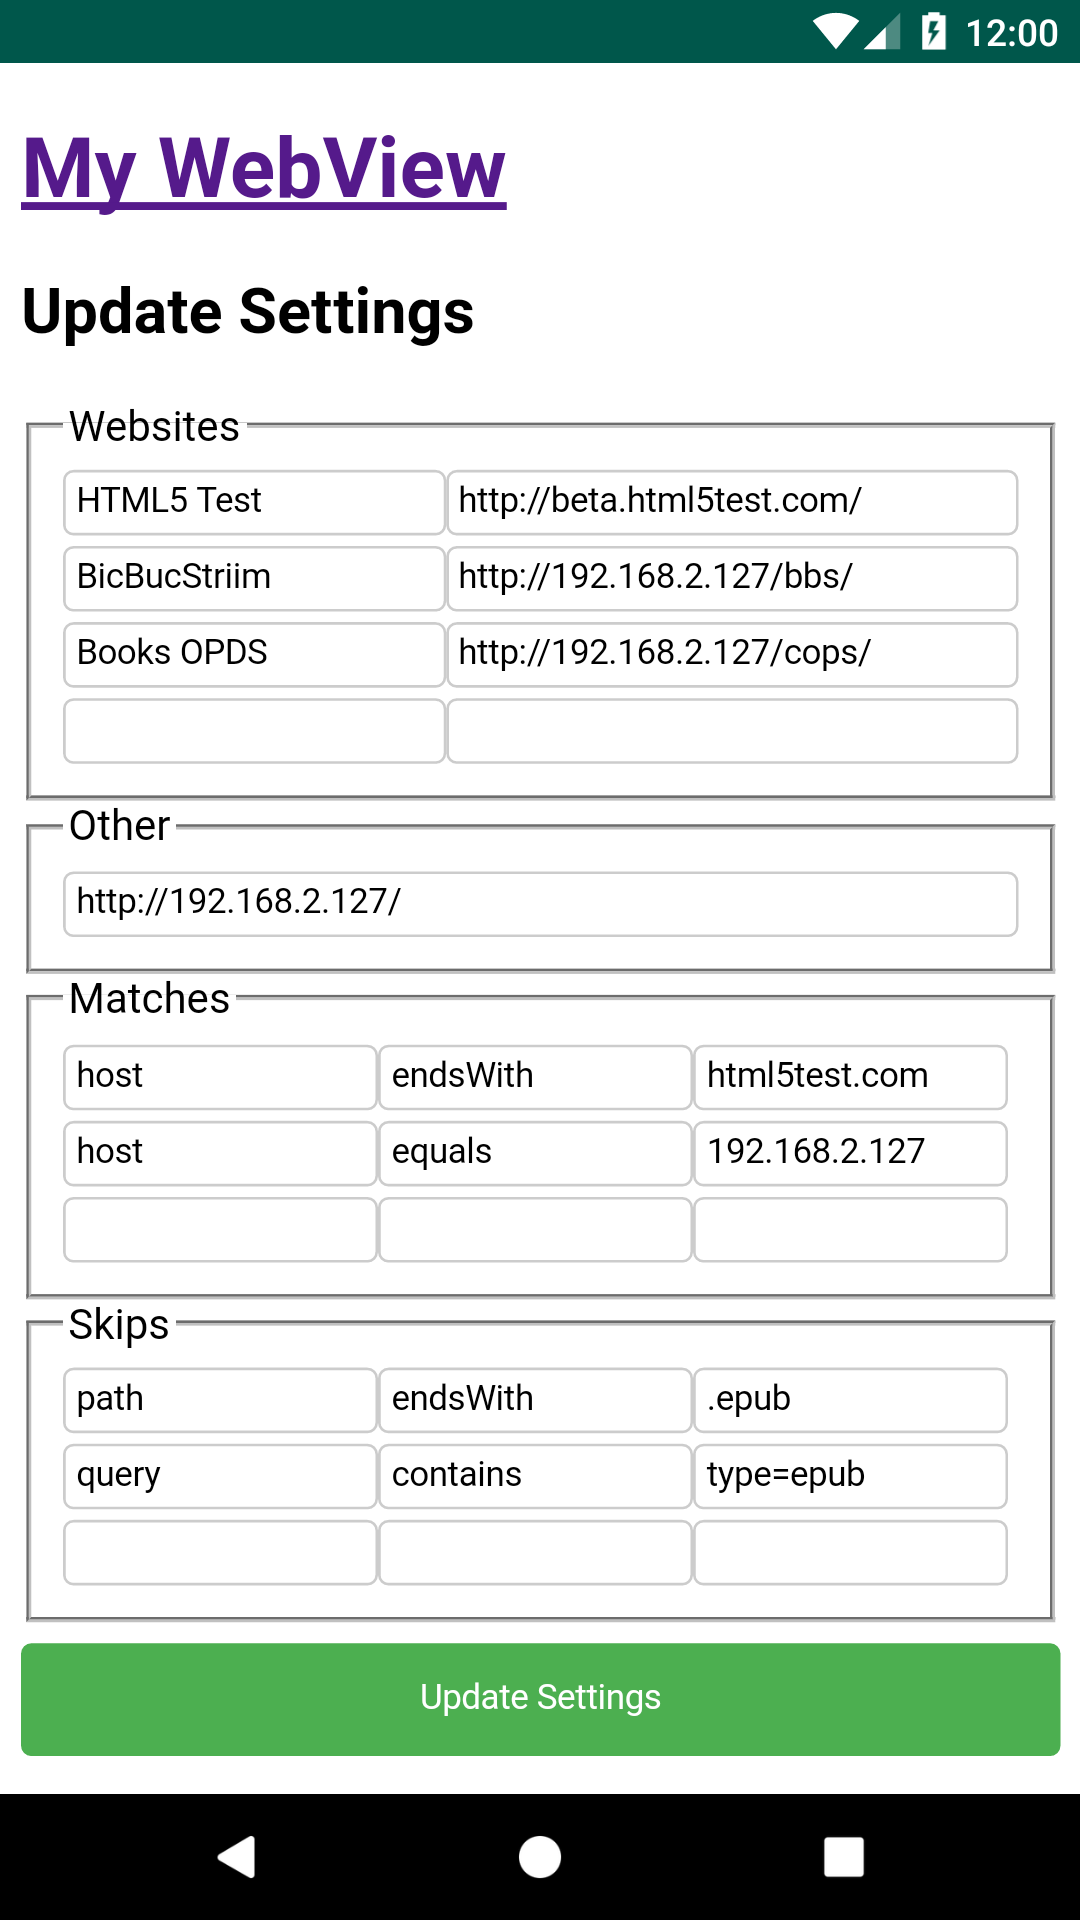
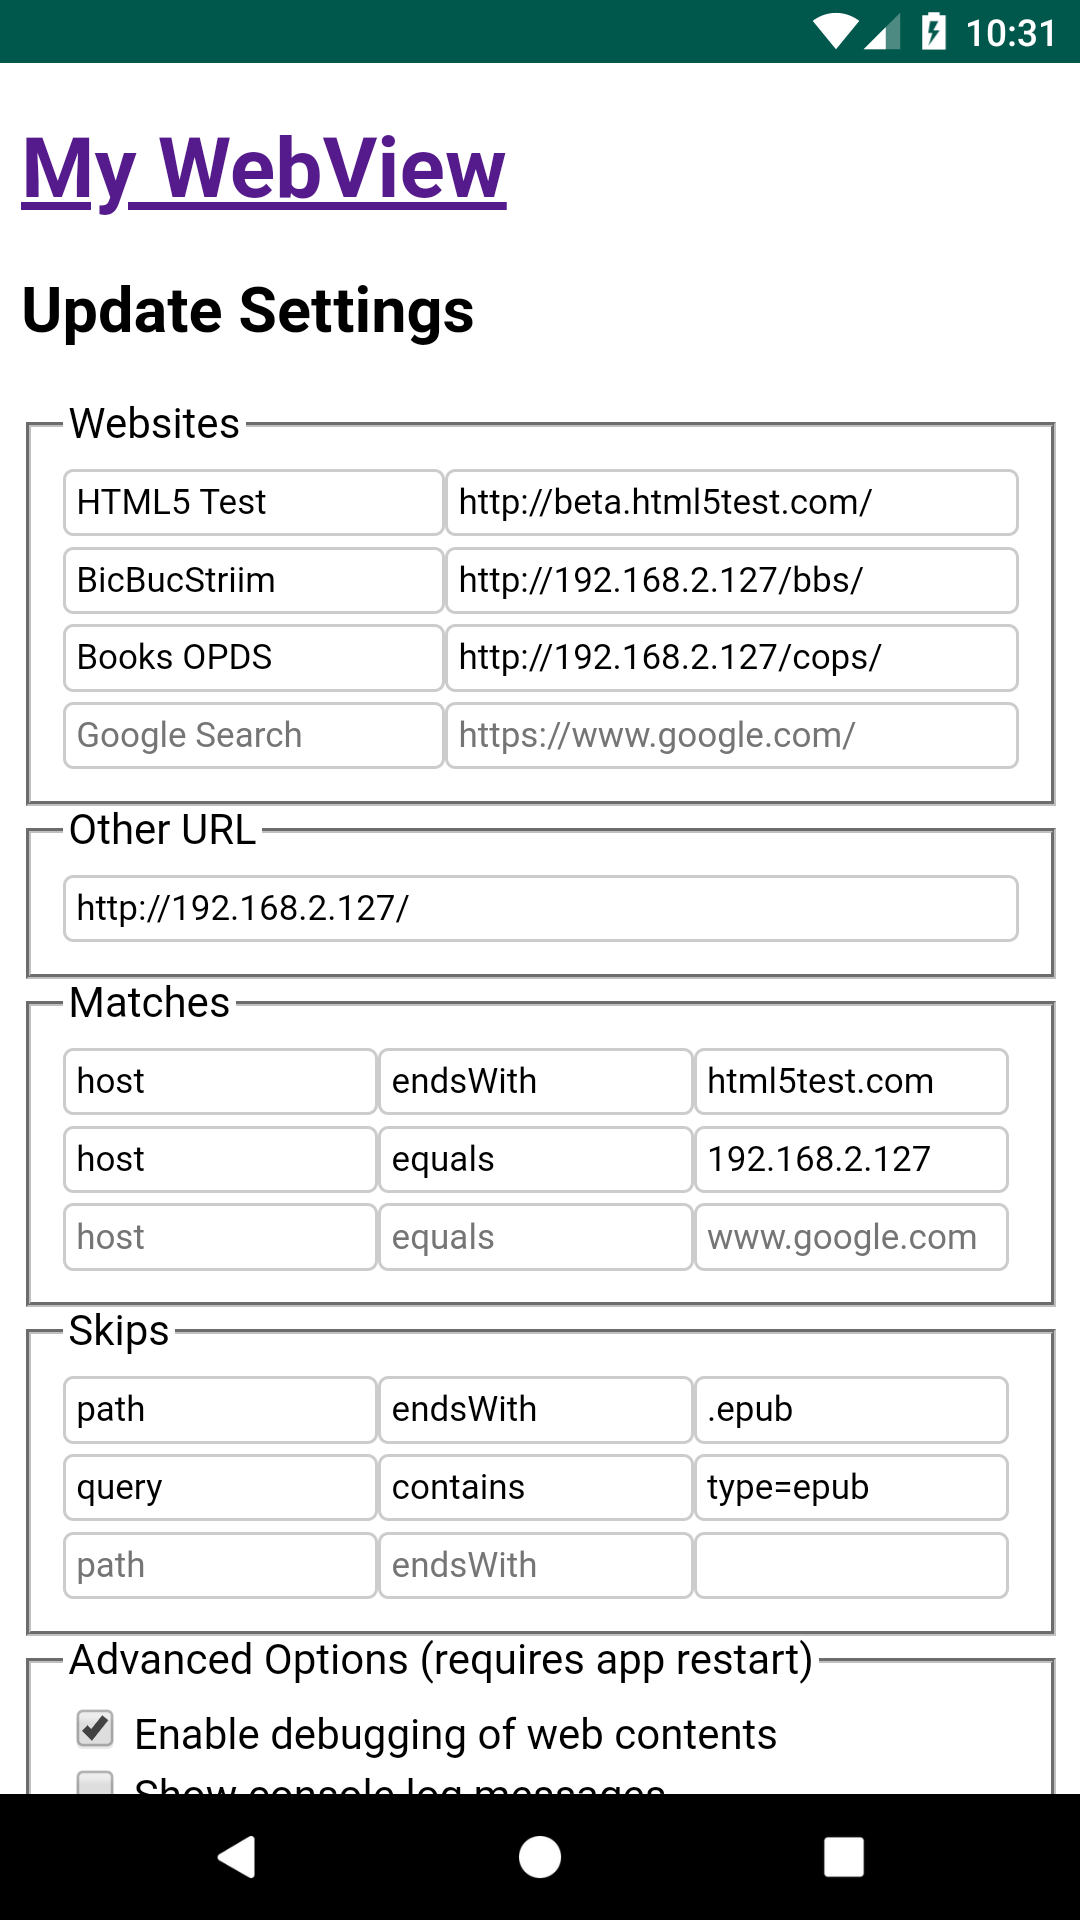
start update assets

diff --git a/app/src/main/assets/web/update.html b/app/src/main/assets/web/update.html
@@ -231,6 +231,11 @@ input[type=submit] {
             <input id="not_matching" type="checkbox" name="not_matching" value="true"> <label for="not_matching">Open non-matching links via browser</label>
         </fieldset>
 
+        <fieldset id="update">
+            <legend><label for="update_zip">Update Assets from trusted site</label></legend>
+            <input id="update_zip" type="url" name="update_zip" value="" placeholder="https://github.com/mikespub/android-webview/raw/master/app/release/updates/assets.zip">
+        </fieldset>
+
         <!--
         <label for="source">Source</label>
         <input id="source" type="text" name="source" value="">
@@ -281,6 +286,10 @@ input[type=submit] {
             var not_matching = document.getElementById("not_matching");
             if (not_matching && settings["not_matching"]) {
                 not_matching.checked = true;
+            }
+            var update_zip = document.getElementById("update_zip");
+            if (update_zip) {
+                update_zip.value = settings["update_zip"];
             }
             var timestamp = document.getElementById("timestamp");
             if (timestamp) {

diff --git a/app/src/main/java/net/mikespub/mywebview/MyAppWebViewClient.java b/app/src/main/java/net/mikespub/mywebview/MyAppWebViewClient.java
@@ -1,8 +1,13 @@
 package net.mikespub.mywebview;
 
+import android.app.DownloadManager;
+import android.content.BroadcastReceiver;
+import android.content.Context;
 import android.content.Intent;
+import android.content.IntentFilter;
 import android.net.Uri;
 import android.util.Log;
+import android.webkit.URLUtil;
 import android.webkit.WebResourceResponse;
 import android.webkit.WebView;
 import android.webkit.WebViewClient;
@@ -28,6 +33,42 @@ class MyAppWebViewClient extends WebViewClient {
     // SavedStateViewModel see https://github.com/googlecodelabs/android-lifecycles/blob/master/app/src/main/java/com/example/android/lifecycles/step6_solution/SavedStateActivity.java
     // or with AndroidViewModel see https://github.com/husaynhakeem/Androidx-SavedState-Playground/blob/master/app/src/main/java/com/husaynhakeem/savedstateplayground/AndroidViewModelWithSavedState.kt
     private final MySavedStateModel mySavedStateModel;
+    // https://androidclarified.com/android-downloadmanager-example/
+    private DownloadManager mDownloadManager;
+    private long mDownloadId = -1;
+    private BroadcastReceiver onDownloadComplete = new BroadcastReceiver() {
+        @Override
+        public void onReceive(Context context, Intent intent) {
+            //Fetching the download id received with the broadcast
+            long id = intent.getLongExtra(DownloadManager.EXTRA_DOWNLOAD_ID, -1);
+            //Checking if the received broadcast is for our enqueued download by matching download id
+            if (id > -1 && mDownloadId == id && mDownloadManager != null) {
+                // unzip
+                Log.d("Web Update", "Receive: " + mDownloadId);
+                /*
+                // query download status
+                Cursor cursor = mDownloadManager.query(new DownloadManager.Query().setFilterById(downloadId));
+                if (cursor.moveToFirst()) {
+                    int status = cursor.getInt(cursor.getColumnIndex(DownloadManager.COLUMN_STATUS));
+                    if(status == DownloadManager.STATUS_SUCCESSFUL){
+
+                        // download is successful
+                        String uri = cursor.getString(cursor.getColumnIndex(DownloadManager.COLUMN_LOCAL_URI));
+                        File file = new File(Uri.parse(uri).getPath());
+                    }
+                    else {
+                        // download is assumed cancelled
+                    }
+                }
+                else {
+                    // download is assumed cancelled
+                }
+                 */
+                Uri uri = mDownloadManager.getUriForDownloadedFile(mDownloadId);
+                Log.d("Web Update", "Uri: " + uri);
+            }
+        }
+    };
 
     MyAppWebViewClient(MainActivity activity) {
         this.activity = activity;
@@ -35,6 +76,8 @@ class MyAppWebViewClient extends WebViewClient {
         // https://stackoverflow.com/questions/57838759/how-android-jetpack-savedstateviewmodelfactory-works
         this.mySavedStateModel = activity.getSavedStateModel();
         loadSettings();
+        Log.d("Web Create", "register receiver");
+        activity.registerReceiver(onDownloadComplete, new IntentFilter(DownloadManager.ACTION_DOWNLOAD_COMPLETE));
     }
 
     Boolean hasDebuggingEnabled() {
@@ -55,6 +98,10 @@ class MyAppWebViewClient extends WebViewClient {
 
     Boolean hasNotMatching() {
         return (Boolean) mySavedStateModel.getValue("not_matching");
+    }
+
+    String hasUpdateZip() {
+        return (String) mySavedStateModel.getValue("update_zip");
     }
 
     private void loadSettings() {
@@ -190,7 +237,6 @@ class MyAppWebViewClient extends WebViewClient {
             return true;
         }
 
-        // TODO: make this configurable for non-matching urls
         if (hasNotMatching()) {
             Intent intent = new Intent(Intent.ACTION_VIEW, uri);
             // Create intent to show chooser
@@ -262,6 +308,30 @@ class MyAppWebViewClient extends WebViewClient {
             HashMap<String, Object> hashMap = this.mySavedStateModel.parseQuery(this.activity, uri);
             String jsonString = this.mySavedStateModel.setSettings(this.activity, hashMap);
             loadSettings();
+            String update_zip = hasUpdateZip();
+            mDownloadId = -1;
+            if (update_zip != null && update_zip.startsWith("http")) {
+                // start download request - https://medium.com/@trionkidnapper/android-webview-downloading-images-f0ec21ac75d2
+                Uri update_uri = Uri.parse(update_zip);
+                if (update_uri != null && URLUtil.isNetworkUrl(update_uri.toString())) {
+                    String update_name = URLUtil.guessFileName(update_uri.toString(), null, null);
+                    File update_file = new File(this.activity.getExternalFilesDir(null), update_name);
+                    if (update_file.exists()) {
+                        Log.d("Web Update", update_file.getAbsolutePath() + " exists");
+                    } else {
+                        Log.d("Web Update", update_file.getAbsolutePath() + " does not exist");
+                        DownloadManager.Request request = new DownloadManager.Request(update_uri);
+                        request.setDestinationInExternalFilesDir(this.activity, null, update_name);
+                        try {
+                            mDownloadManager = (DownloadManager) this.activity.getSystemService(Context.DOWNLOAD_SERVICE);
+                            mDownloadId = mDownloadManager.enqueue(request);
+                            Log.d("Web Update", "Enqueue: " + mDownloadId);
+                        } catch (Exception e) {
+                            Log.e("Web Update", e.toString());
+                        }
+                    }
+                }
+            }
             String message = "<!DOCTYPE html>\n" +
                     "<html lang=\"en\">\n" +
                     "<head>\n" +

diff --git a/app/src/main/java/net/mikespub/mywebview/MySettingsRepository.java b/app/src/main/java/net/mikespub/mywebview/MySettingsRepository.java
@@ -11,9 +11,11 @@ import androidx.appcompat.app.AppCompatActivity;
 import org.json.JSONException;
 import org.json.JSONObject;
 
+import java.io.BufferedInputStream;
 import java.io.BufferedReader;
 import java.io.File;
 import java.io.FileInputStream;
+import java.io.FileNotFoundException;
 import java.io.FileOutputStream;
 import java.io.IOException;
 import java.io.InputStream;
@@ -33,6 +35,8 @@ import java.util.HashMap;
 import java.util.List;
 import java.util.Locale;
 import java.util.TimeZone;
+import java.util.zip.ZipEntry;
+import java.util.zip.ZipInputStream;
 
 class MySettingsRepository {
     // http://tutorials.jenkov.com/android/android-web-apps-using-android-webview.html
@@ -94,6 +98,7 @@ class MySettingsRepository {
         return hashMap;
     }
 
+    // TODO: update assets from trusted site
     private long checkAssetFiles() {
         // /data/user/0/net.mikespub.mywebview/files
         // File filesdir = getFilesDir();
@@ -111,7 +116,10 @@ class MySettingsRepository {
         // See also https://stackoverflow.com/questions/37953002/mess-with-the-shared-preferences-of-android-which-function-to-use/37953072 for preferences
         long lastUpdated = 0;
         if (!extwebdir.exists()) {
-            extwebdir.mkdirs();
+            if (!extwebdir.mkdirs()) {
+                Log.d("External Web Dir", Boolean.toString(extwebdir.exists()));
+                return lastUpdated;
+            }
             Log.d("External Web Dir", Boolean.toString(extwebdir.exists()));
         } else {
             try {
@@ -160,6 +168,34 @@ class MySettingsRepository {
         int read;
         while((read = in.read(buffer)) != -1){
             out.write(buffer, 0, read);
+        }
+    }
+
+    // See https://stackoverflow.com/questions/3382996/how-to-unzip-files-programmatically-in-android
+    public static void unzipFile(File zipFile, File targetDirectory) throws IOException {
+        try (ZipInputStream zis = new ZipInputStream(
+                new BufferedInputStream(new FileInputStream(zipFile)))) {
+            ZipEntry ze;
+            int count;
+            byte[] buffer = new byte[8192];
+            while ((ze = zis.getNextEntry()) != null) {
+                File file = new File(targetDirectory, ze.getName());
+                File dir = ze.isDirectory() ? file : file.getParentFile();
+                if (!dir.isDirectory() && !dir.mkdirs())
+                    throw new FileNotFoundException("Failed to ensure directory: " +
+                            dir.getAbsolutePath());
+                if (ze.isDirectory())
+                    continue;
+                try (FileOutputStream fout = new FileOutputStream(file)) {
+                    while ((count = zis.read(buffer)) != -1)
+                        fout.write(buffer, 0, count);
+                }
+                /* if time should be restored as well
+                long time = ze.getTime();
+                if (time > 0)
+                    file.setLastModified(time);
+                */
+            }
         }
     }
 
@@ -216,6 +252,7 @@ class MySettingsRepository {
         String js_interface = uri.getQueryParameter("js_interface");
         String context_menu = uri.getQueryParameter("context_menu");
         String not_matching = uri.getQueryParameter("not_matching");
+        String update_zip = uri.getQueryParameter("update_zip");
         HashMap<String, Object> hashMap = new HashMap<>();
         List<HashMap<String, String>> sites = new ArrayList<>();
         for (int i = 0; i < titles.size(); i++) {
@@ -279,6 +316,7 @@ class MySettingsRepository {
         } else {
             hashMap.put("not_matching", false);
         }
+        hashMap.put("update_zip", update_zip);
         hashMap.put("source", "updated via webview");
         hashMap.put("timestamp", getTimestamp(0));
         return hashMap;
@@ -292,7 +330,7 @@ class MySettingsRepository {
         // https://stackoverflow.com/questions/16563579/jsonobject-tostring-how-not-to-escape-slashes
         try {
             jsonString = jsonObject.toString(2).replace("\\","");
-            Log.d("Web Settings", jsonString);
+            //Log.d("Web Settings", jsonString);
             File extwebfile = new File(this.activity.getExternalFilesDir(null), "web/settings.json");
             // https://stackoverflow.com/questions/11371154/outputstreamwriter-vs-filewriter/11371322
             try (OutputStreamWriter osw = new OutputStreamWriter(new FileOutputStream(extwebfile), StandardCharsets.UTF_8)) {

diff --git a/app/src/main/java/net/mikespub/mywebview/MySavedStateModel.java b/app/src/main/java/net/mikespub/mywebview/MySavedStateModel.java
@@ -35,27 +35,9 @@ public class MySavedStateModel extends ViewModel {
             MySettingsRepository repo = new MySettingsRepository(activity);
             hashMap = repo.loadJsonSettings();
             setValuesFromMap(hashMap);
-            return hashMap;
+        } else {
+            getMapFromValues(hashMap);
         }
-        hashMap.put("source", source);
-        List<HashMap<String, String>> sites = (ArrayList) getValue("sites");
-        hashMap.put("sites", sites);
-        String other = (String) getValue("other");
-        hashMap.put("other", other);
-        List<List<String>> match = (ArrayList) getValue("match");
-        hashMap.put("match", match);
-        List<List<String>> skip = (ArrayList) getValue("skip");
-        hashMap.put("skip", skip);
-        Boolean remote_debug = (Boolean) getValue("remote_debug");
-        hashMap.put("remote_debug", remote_debug);
-        Boolean console_log = (Boolean) getValue("console_log");
-        hashMap.put("console_log", console_log);
-        Boolean js_interface = (Boolean) getValue("js_interface");
-        hashMap.put("js_interface", js_interface);
-        Boolean context_menu = (Boolean) getValue("context_menu");
-        hashMap.put("context_menu", context_menu);
-        Boolean not_matching = (Boolean) getValue("not_matching");
-        hashMap.put("not_matching", not_matching);
         return hashMap;
     }
 
@@ -75,7 +57,33 @@ public class MySavedStateModel extends ViewModel {
         setValue("js_interface", hashMap.get("js_interface"));
         setValue("context_menu", hashMap.get("context_menu"));
         setValue("not_matching", hashMap.get("not_matching"));
+        setValue("update_zip", hashMap.get("update_zip"));
         setValue("timestamp", hashMap.get("timestamp"));
+    }
+
+    private void getMapFromValues(HashMap<String, Object> hashMap) {
+        String source = (String) getValue("source");
+        hashMap.put("source", source);
+        List<HashMap<String, String>> sites = (ArrayList) getValue("sites");
+        hashMap.put("sites", sites);
+        String other = (String) getValue("other");
+        hashMap.put("other", other);
+        List<List<String>> match = (ArrayList) getValue("match");
+        hashMap.put("match", match);
+        List<List<String>> skip = (ArrayList) getValue("skip");
+        hashMap.put("skip", skip);
+        Boolean remote_debug = (Boolean) getValue("remote_debug");
+        hashMap.put("remote_debug", remote_debug);
+        Boolean console_log = (Boolean) getValue("console_log");
+        hashMap.put("console_log", console_log);
+        Boolean js_interface = (Boolean) getValue("js_interface");
+        hashMap.put("js_interface", js_interface);
+        Boolean context_menu = (Boolean) getValue("context_menu");
+        hashMap.put("context_menu", context_menu);
+        Boolean not_matching = (Boolean) getValue("not_matching");
+        hashMap.put("not_matching", not_matching);
+        String update_zip = (String) getValue("update_zip");
+        hashMap.put("update_zip", update_zip);
     }
 
     String setSettings(AppCompatActivity activity, HashMap<String, Object> hashMap) {
@@ -84,4 +92,5 @@ public class MySavedStateModel extends ViewModel {
         //setValue("timestamp", repo.getTimestamp(0));
         return repo.saveJsonSettings(hashMap);
     }
+
 }

diff --git a/app/src/main/java/net/mikespub/mywebview/MainActivity.java b/app/src/main/java/net/mikespub/mywebview/MainActivity.java
@@ -20,7 +20,7 @@ import androidx.lifecycle.ViewModelProvider;
 // and Android Browser Helper https://github.com/GoogleChrome/android-browser-helper
 public class MainActivity extends AppCompatActivity {
 
-    // TODO: SavedStateViewModel see https://github.com/googlecodelabs/android-lifecycles/blob/master/app/src/main/java/com/example/android/lifecycles/step6_solution/SavedStateActivity.java
+    // SavedStateViewModel see https://github.com/googlecodelabs/android-lifecycles/blob/master/app/src/main/java/com/example/android/lifecycles/step6_solution/SavedStateActivity.java
     // or with AndroidViewModel see https://github.com/husaynhakeem/Androidx-SavedState-Playground/blob/master/app/src/main/java/com/husaynhakeem/savedstateplayground/AndroidViewModelWithSavedState.kt
     //private MySavedStateModel mySavedStateModel;
 
